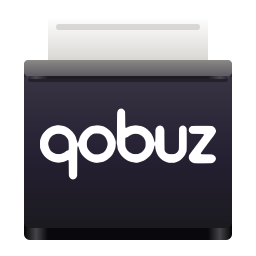
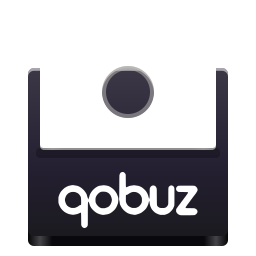
fixes overview-3b: enpara qobuz

diff --git a/work/qobuz/redesign.py b/work/qobuz/redesign.py
@@ -43,19 +43,17 @@ def A():
 
 
 def B():
-    """Faithful - an album sleeve: a dark cardboard cover with its open mouth at the top, the white
-    paper inner sleeve peeking out of it, and the white wordmark across the front. No record: a
-    vinyl is Deezer's object (same_object)."""
+    """Faithful - an album sleeve with its white paper inner sleeve pulled half out of the top: the
+    sleeve has a round die-cut window, the dark cardboard cover sits lower with the white wordmark
+    and the sleeve's fold shadow falls on it. No record: a vinyl is Deezer's object (same_object)."""
     ic = gk.Icon("qobuz - faithful")
-    inner = rr(24, 8, 104, 40, 2)
-    solid(ic, inner, face=[(0, "#ffffff"), (0.6, LIGHT[2]), (1, LIGHT[3])], depth=2, side=LIGHT[4], layer="inner-sleeve")
-    ic.path(geom_d(rr(28, 12, 100, 15, 1.5)), "#b5b3b0", opacity=0.45, layer_id="inner-fold")
-    cover = rr(12, 30, 116, 114, 3)
-    solid(ic, cover, face=[(0, "#3d3846"), (0.6, DARK[3]), (1, "#1b1a1f")], depth=6, side="#141317", layer="cover")
-    mouth = rr(12, 30, 116, 38, 2)
-    solid(ic, mouth, face=[(0, "#8a8986"), (1, "#5e5c64")], depth=1.5, side="#3d3846", top=False, layer="mouth")
-    ic.path(geom_d(rr(14, 38, 114, 41, 1.5)), "#000000", opacity=0.35, layer_id="mouth-shadow")
-    put_mark(ic, SLUG, (20, 52, 108, 92), face="#ffffff")
+    cover = rr(14, 34, 114, 118, 3)
+    solid(ic, cover, face=[(0, "#3d3846"), (0.6, DARK[3]), (1, "#1b1a1f")], depth=5, side="#141317", layer="cover")
+    inner = rr(20, 8, 108, 74, 2).difference(circ(64, 46, 13))
+    solid(ic, inner, face="#ffffff", depth=1, side="#e6e5e2", layer="inner-sleeve")
+    ic.path(geom_d(circ(64, 46, 13).difference(circ(64, 46, 11))), "#b5b3b0", opacity=0.55, layer_id="window-rim")
+    ic.path(geom_d(rr(18, 74, 110, 79, 2)), "#000000", opacity=0.26, layer_id="fold-shadow")
+    put_mark(ic, SLUG, (22, 86, 106, 114), face="#ffffff")
     return ic
 
 

diff --git a/work/enpara/redesign.py b/work/enpara/redesign.py
@@ -57,7 +57,7 @@ def B():
     for i, c in enumerate(cols):
         seg = box(14 + i * 25, 94, 14 + (i + 1) * 25, 116).intersection(stripe)
         ic.path(geom_d(seg), c, layer_id=f"stripe-{i}")
-    put_mark(ic, SLUG, (20, 40, 108, 94), depth=6, anchor="bottom", face=MAG, side=MAG_DD)
+    put_mark(ic, SLUG, (20, 34, 108, 88), depth=6, anchor="bottom", face=MAG, side=MAG_DD)
     return ic
 
 

diff --git a/work/qobuz/fixes-overview-3b.md b/work/qobuz/fixes-overview-3b.md
@@ -6,4 +6,4 @@ shown:
 
 Change EXACTLY this style; the others stay. How: docs/PLAYBOOK.md#owner-fix
 
-- [ ] faithful: still reads as a black square with the wordmark (the logo on a plate); the inner sleeve is a thin strip at the top. Without a record (Deezer's): pull the white paper inner sleeve HALF out (about the top 40 % of the icon), with its round centre hole and a soft fold, and the dark cover below it, smaller, with the wordmark - so it reads as an album sleeve at 48 px. Optional: a round die-cut window in the cover
+- [x] faithful: still reads as a black square with the wordmark (the logo on a plate); the inner sleeve is a thin strip at the top. Without a record (Deezer's): pull the white paper inner sleeve HALF out (about the top 40 % of the icon), with its round centre hole and a soft fold, and the dark cover below it, smaller, with the wordmark - so it reads as an album sleeve at 48 px. Optional: a round die-cut window in the cover -> now: the white paper inner sleeve is pulled half out of the dark cover (sleeve from y 8 to 74, cover from 34 to 118), inset on both sides, with its round die-cut window (r 13, thin rim) and the fold shadow where it leaves the cover; the wordmark on the smaller dark cover below

diff --git a/work/enpara/fixes-overview-3b.md b/work/enpara/fixes-overview-3b.md
@@ -6,4 +6,4 @@ shown:
 
 Change EXACTLY this style; the others stay. How: docs/PLAYBOOK.md#owner-fix
 
-- [ ] faithful: the letters SINK into the four-colour stripe - their side (depth 6) runs from y 94 to 100 over the stripe, because the put_mark box ends at y 94, the stripe's top. With anchor='bottom' the side adds `depth` BELOW the box: end the box `depth` above the surface - put_mark(ic, SLUG, (20, 34, 108, 88), depth=6, anchor='bottom', ...) - so the letters STAND on the stripe and nothing of them covers it
+- [x] faithful: the letters SINK into the four-colour stripe - their side (depth 6) runs from y 94 to 100 over the stripe, because the put_mark box ends at y 94, the stripe's top. With anchor='bottom' the side adds `depth` BELOW the box: end the box `depth` above the surface - put_mark(ic, SLUG, (20, 34, 108, 88), depth=6, anchor='bottom', ...) - so the letters STAND on the stripe and nothing of them covers it -> now: put_mark box (20, 34, 108, 88) with depth 6 and anchor bottom, so the side ends exactly on the stripe top at y 94 - the letters stand on the stripe, nothing of them covers it (legibility 0.839)

diff --git a/work/qobuz/design.md b/work/qobuz/design.md
@@ -18,9 +18,10 @@ function object (what the app does, as a physical thing): a studio microphone - 
 
 concepts (work/qobuz/concepts.png) - four different ideas:
   A: a studio condenser microphone on a shock mount, wordmark on its body (Symbol)
-  B: an album sleeve: dark cardboard cover with its open mouth and the white inner sleeve peeking out, wordmark on the front (Faithful)
-shape-ok: the Faithful is an album sleeve (a real cardboard sleeve, open at the top) - a flat
-  square object, not a plate with the logo on it; the plain_shape WARN stays on purpose (2026-11-23).
+  B: an album sleeve: the white paper inner sleeve pulled half out of the dark cover, round die-cut window, wordmark on the smaller cover (Faithful)
+shape-ok: the Faithful is an album sleeve (a real cardboard cover with the paper inner sleeve
+  half out) - a flat square object, not a plate with the logo on it; the plain_shape WARN stays on
+  purpose (2026-11-23).
   C: a compact disc: iridescent silver, dark label band with the wordmark (Disc)
   D: a mixing console: faders and knobs, white wordmark on the front panel (Rimmed)
 

diff --git a/docs/LOG.md b/docs/LOG.md
@@ -315,3 +315,12 @@ Times are from the commits; the model of a backfilled session is what the commit
 - Owner: "Bıktım bana prompt vermenden, yaz depoya" (2026-11-22)
 - Open problems: allowed WARNs only (plain_shape on real boxes/signs/sleeves); every FAIL and every
   fixable WARN (mark_fit, mark_size, visible, legibility32, same_object) is cleared.
+
+## 2026-11-23 — DeepSeek V4.1 Flash Free via OpenCode — fixes `overview-3b` (2 apps)
+- What: enpara faithful: put_mark box (20,34,108,88) depth 6 anchor bottom - the side ends on the
+  stripe top (y 94), the en stands on the stripe instead of sinking into it. qobuz faithful: the
+  white paper inner sleeve is pulled half out of the smaller dark cover, inset on both sides, with
+  its round die-cut window (r 13) and the fold shadow; the wordmark sits on the cover.
+- Why: round-2 review in the repository (`fixes-overview-3b.md`), owner "Başla" (2026-11-23).
+- Open problems: qobuz faithful keeps the allowed plain_shape WARN (a real sleeve); all FAIL and
+  fixable WARN clear (legibility 0.731, mark_fit 9 u, mark 70 px).
